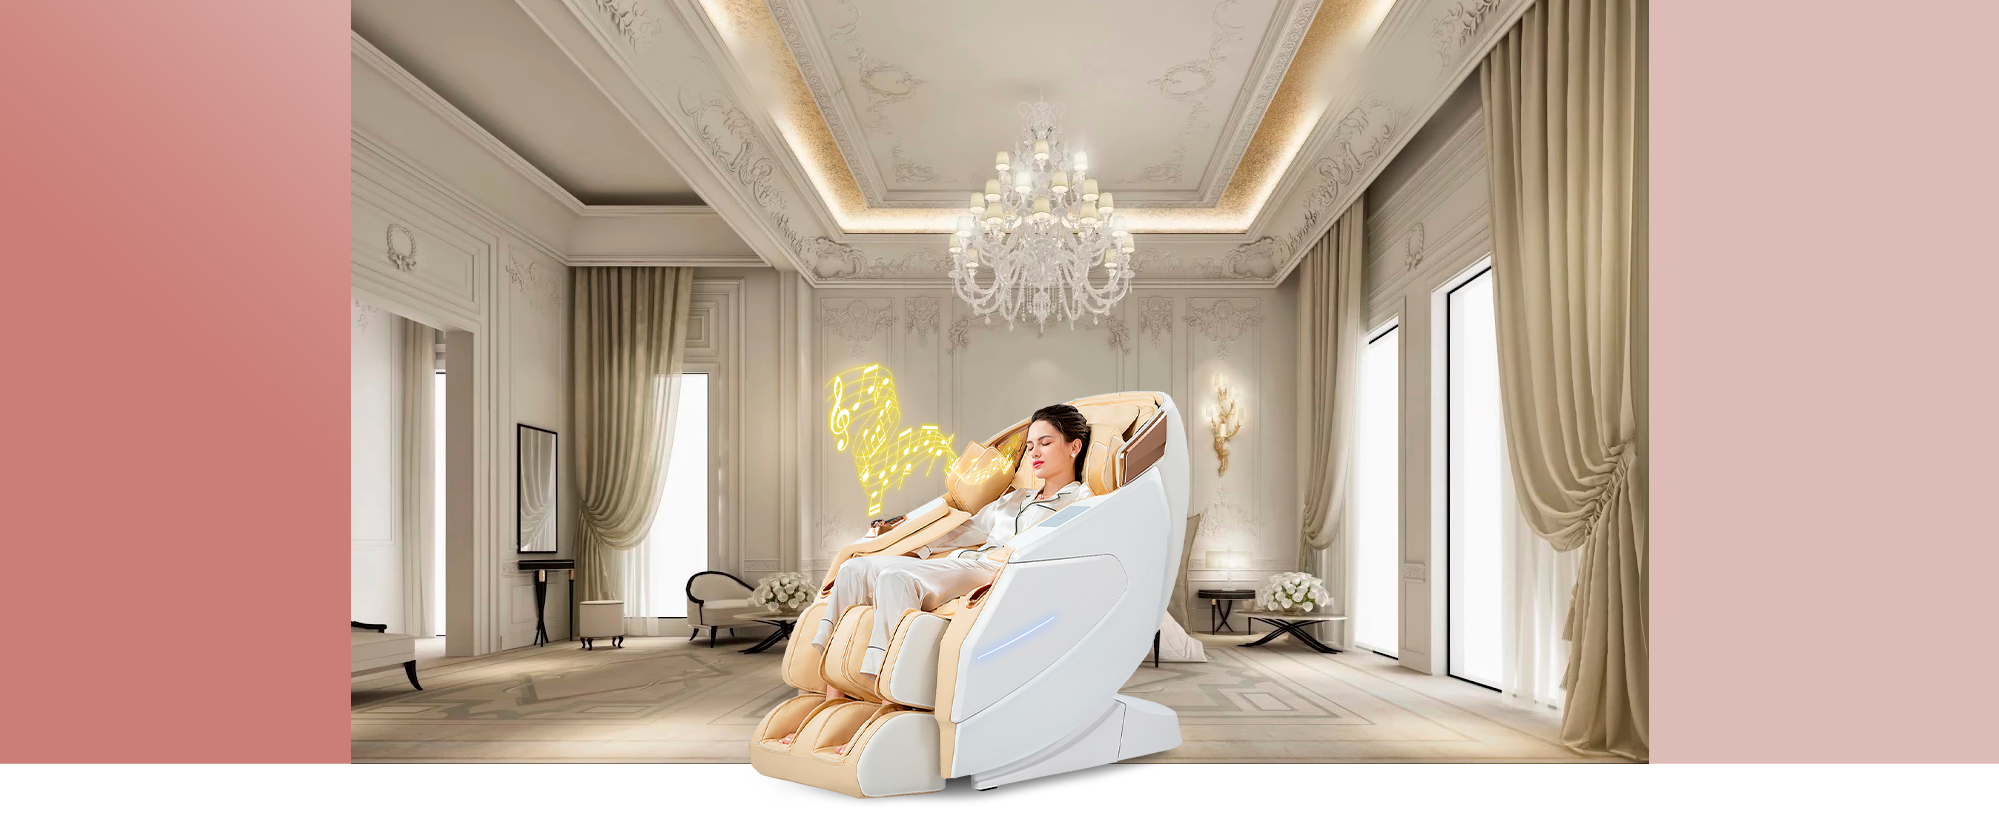
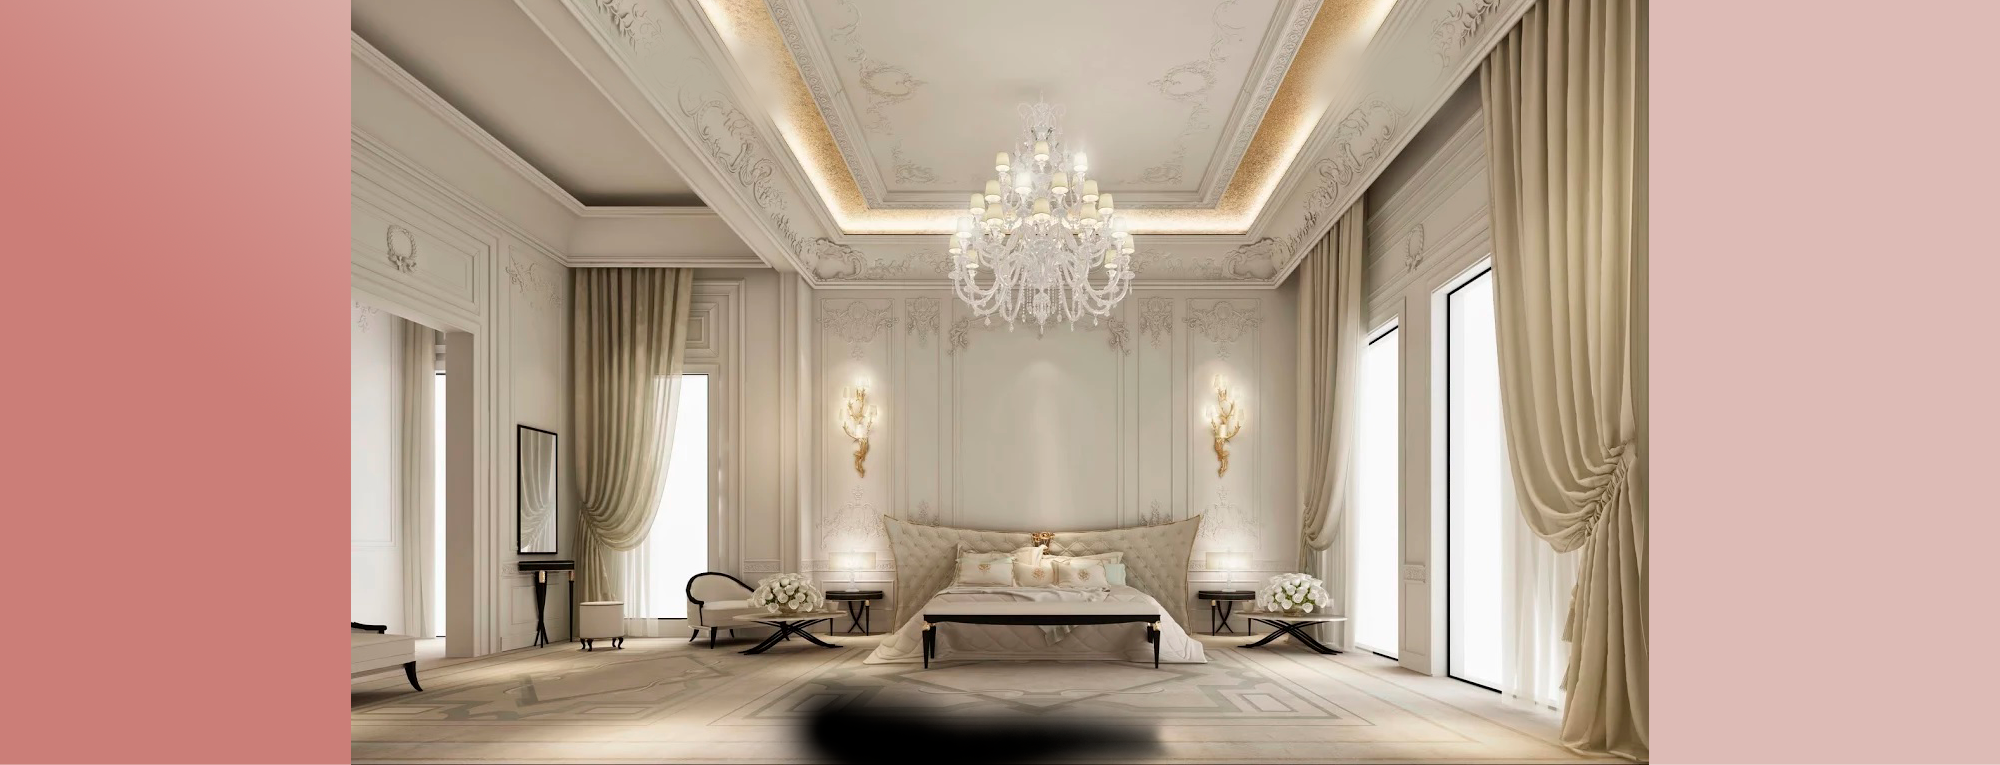
eco, voice sections

Changed region(s): [[0.0, 0.0, 1.0, 1.0], [0.1551, 0.3007, 0.2481, 0.481], [0.1861, 0.0601, 0.2171, 0.1203]]

diff --git a/index.html b/index.html
@@ -139,20 +139,47 @@
     </section>
     <section id="section_consigliere">
       <div class="wrapper">
-        <h2>Интеллектуальный помощник <span>consigliere</span></h2>
+        <h2>Интеллектуальный<br />помощник<br /><span>consigliere</span></h2>
         <p>
-          Массажное кресло оборудовано встроенной в левый подлокотник специальной
-          системой быстрого запуска кресла в виде джойстика consigliere Вы
-          нажимаете кнопку запуска, и сердце вашего кресла начинает размеренно
-          биться, а на пульте управления появляется информационное сообщение, как
-          бы приветствуя своего хозяина. Интуитивное управление с помощью
-          джойстика позволит быстро включить кресло.
+          Массажное кресло оборудовано встроенной в левый подлокотник
+          специальной системой быстрого запуска кресла в виде джойстика
+          consigliere Вы нажимаете кнопку запуска, и сердце вашего кресла
+          начинает размеренно биться, а на пульте управления появляется
+          информационное сообщение, как бы приветствуя своего хозяина.
+          Интуитивное управление с помощью джойстика позволит быстро включить
+          кресло.
         </p>
       </div>
     </section>
     <section id="section_massage"></section>
-    <section id="section_voice"></section>
-    <section id="section_design_eco"></section>
+    <section id="section_voice">
+      <h2>Интеллектуальное голосовое управление</h2>
+      <p>Команды голосом, освободи руки</p>
+      <img src="img/voice.png" alt="">
+    </section>
+    <section id="section_design_eco">
+      <div class="wrapper">
+        <h2>Дизайн и экологичность</h2>
+        <p>Фирма National особенно тщательно подходит к дизайну своей продукции, и линейка массажных кресел National – это успешная коллаборация с амбициозным японским дизайнером KEN OKUYAMA.<br>
+          В новой линейке продукции National используется сверхпрочная, качественная автомобильная эко кожа, которой обшивают кресла премиальных автомобилей.</p>
+        <div id="design_grid">
+          <article>
+            <h3>Его дизайн это
+              Язык чувств</h3>
+            <p>От всемирно известного
+              Ferrari Дизайнера
+              KEN OKUYAMA</p>
+            <img src="img/sign.png" alt="" />
+          </article>
+          <img src="img/ken_okuyama.png" alt="" />
+          <article>
+            <img src="img/leather_1.png" alt="" /><img src="img/leather_2.png" alt="" /><img src="img/leather_3.png" alt="" />
+            <h3>КОЖА NAPPA</h3>
+          </article>
+        </div>
+      </div>
+
+    </section>
     <section id="section_ergonomic">
       <div class="wrapper">
         <h2>Эргономичность</h2>

diff --git a/style.css b/style.css
@@ -225,7 +225,10 @@ bottom:0;
     grid-column: 1/2;
     grid-row: 1/3;
     justify-self: left;
-    margin-bottom: -30px;
+    margin-top: 20px;
+    margin-left: -80px;
+    height: 780px;
+    width: auto;
 }
 
 #section_wireless h2{
@@ -241,6 +244,26 @@ bottom:0;
     background-size: cover;
 }
 
+#section_consigliere h2{
+    font-size:46px;
+    text-transform: uppercase;
+    font-weight: 200;
+    padding-top: 37px;
+}
+
+#section_consigliere span{
+    font-size:46px;
+    color: #465a64;
+    text-transform: uppercase;
+}
+
+#section_consigliere p{
+    font-size:16px;
+    text-transform: uppercase;
+    width: 337px;
+    padding-top: 40px;
+}
+
 #section_massage {
     background: url(img/section7_bgi.png);
     background-position: center;
@@ -253,6 +276,21 @@ bottom:0;
     background-position: center;
     background-repeat: no-repeat;
     background-size: cover;
+    position: relative;
+}
+
+#section_voice h2 {
+    text-align: center;
+}
+
+#section_voice p {
+    text-align: center;
+}
+
+#section_voice img {
+    position: absolute;
+    bottom:-30px;
+    left: calc(50vw - 221px);
 }
 
 #section_design_eco {
@@ -260,6 +298,42 @@ bottom:0;
     background-position: center;
     background-repeat: no-repeat;
     background-size: cover;
+}
+
+#section_design_eco .wrapper {
+    position: relative;
+    height: 100%;
+}
+
+#section_design_eco h2{
+    font-size: 46px;
+    font-weight: 200;
+    text-transform: uppercase;
+    padding-top: 75px;
+    text-align: center;
+}
+
+#section_design_eco p{
+    font-size: 15px;
+    text-transform: uppercase;
+    padding-top: 20px;
+    text-align: center;
+}
+
+#section_design_eco h3{
+
+}
+
+#section_design_eco h3+p{
+
+}
+
+#design_grid {
+    display: grid;
+    grid-template-columns: 1fr 2fr 1fr;
+    position: absolute;
+    bottom: 0;
+    left: 0;
 }
 
 #section_ergonomic {
@@ -341,6 +415,10 @@ bottom:0;
         line-height: 15px;
     }
 
+    #section_wireless img {
+        height: 500px;
+    }
+
     #section_ergonomic h2 {
         font-size: 36px;
         padding-top: 30px;
@@ -373,6 +451,11 @@ bottom:0;
         height: 50px;
     }
     
+    #section_wireless img {
+        width: 50vw;
+        height: auto;
+        max-height: 500px;
+    } 
     #section_ergonomic h2 {
         font-size: 24px;
         letter-spacing: 8px;
